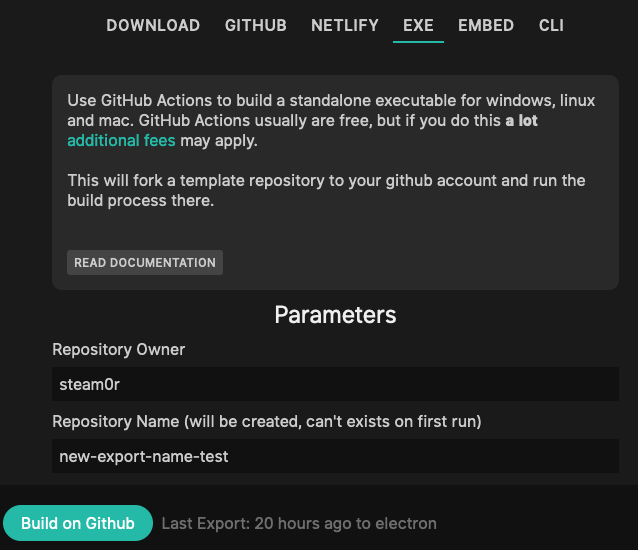
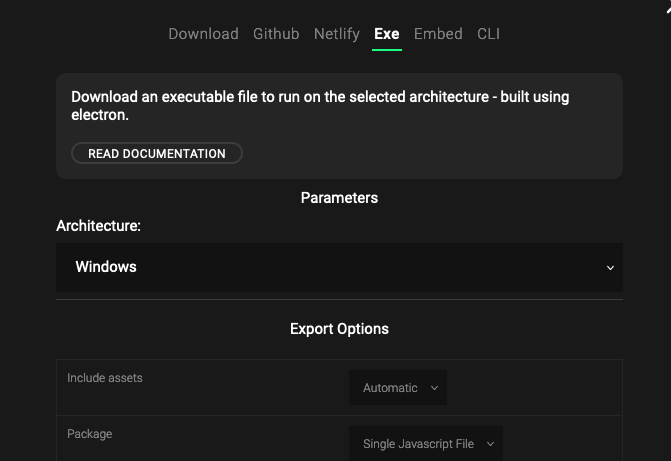
update export docs for exe export, add options for "no subdirectories" - pandrr/cables/issues/3888

diff --git a/docs/md/4_export_embed/dev_embed/export_exe/export_exe.md b/docs/md/4_export_embed/dev_embed/export_exe/export_exe.md
@@ -8,9 +8,9 @@ This export option allows you to create a standalone executable that will run on
 natively.
 
 We are using [electron](https://www.electronjs.org/) for the cross-platform running of cables patches and
-we will build the executables using server-resources given to us by you in using [github actions](https://github.com/features/actions).
+we will build the executables on our servers for you to download once ready.
 
-The executable will be build and downloadable on github after all is done (see CAVEATS)
+Building executables for OSX is not that easy, so there is a few things to keep in mind (see CAVEATS).
 
 ## Prerequisites
 
@@ -21,40 +21,26 @@ The executable will be build and downloadable on github after all is done (see C
 
 ## Parameters
 
-All these parameters can only be changed/entered by the owner of the patch. Exports can be done to configured deployments
-by all collaborators added to the patch.
+Exports can be done by all collaborators added to the patch.
 
-### Repository Owner
+### Architecture
 
-Put in the name of the repository owner, most of the time this is your github username.
-
-If your repository URL is `https://github.com/cables-gl/cables-cli/` your ownername will be `cables-gl`
-
-### Repository Name
-
-Put in the name of the repository. DO NOT PUT IN AN EXISTING repository. cables will create a new repository for you.
-
-### Branch
-
-This can be left blank or pick any branch you want the changes to be pushed to. ONLY pushes to `main` will trigger
-building the executables!
-
-### Access Token
-
-Enter your generated [access token](https://github.com/settings/tokens) that has at least "repo" permissions in github.
+Pick any of the available operating systems and cpu architectures you want your export to run on. Please
+take a look at the CAVEATS below if you are trying to export to OS X and especially OS X on ARM ("Apple Silicon"/"M1").
 
 ## WALKTHROUGH
 - enter the above information
 - click on button
-- wait for the two buttons to appear
-- click on "View progress" to see the progress of your build on github
-- click on "View finished builds" to jump to the download page on github (it might take a few minutes for build to show up here)
+- wait for the download button to appear
+- download executable, can take some time as electron might turn out to be quite big depending on your platform, even with smaller patches
 
 ## CAVEATS
-- IGNORE THE FIRST BUILD! this is mainly to create the "framework", there will be a second run that then builds your actual patch.
-- this will fail if the repository given already exists before the first run
-- any subsequent run will update (and replace) the current patch
-- old versions will still be available for download on the release page of your repository
+- Apple introduced some security features that make it next to impossible to build these kind of apps at the moment, so there is a few caveats when using this on OS X.
+- The executable is not signed, you will need to whitelist it on every machine you run it on (right click, "open" usually does that).
+  - We cannot sign this executable, as it's contents do change when downloading a patch, this is intended...sorry...
+  - The build for arm/m1-architecture is even harder to run, apple forbids running unsigned apps that are build for arm entirely, not even whitelisting is possible...you may sign it on your own, though.
+- Once you downloaded the app, USE THE FINDER to move it basically anywhere else (like your desktop) before opening it
+  - Apple puts downloaded apps into a random read-only directory UNTIL YOU MOVE IT USING FINDER, we need to write to the directory...sorry...
 
 ## Export Options
 
@@ -76,7 +62,12 @@ these files included in the export.
 - Single Javascript File: packages and minifies everything into one single javascript file to include
 - Multiple Files: will keep the patch configuration, your code, and core code in seperate files
 
-### Compatibility
+### Skip Backups
 
-- Modern browsers: exports your patch as is
-- Old browsers: uses [babel](https://babeljs.io/) to try make your patch run on older browsers, in general should not be needed anymoretry make your patch run on older browsers, in general should not be needed anymore
+- When deselecting this option, the export will include JSON-files for all the versions of your patch that can be re-imported into cables later.
+
+### Export without subdirectories
+
+- Should you need the directory structure of your patch to be "flat" (no js/ or assets/ subdirectory) you can select this option.
+  - This will ususally not be needed, some platforms do not allow for accessing subdirectories tough, and some setups of frameworks like react/vue also behave weirdly with subdirectories.
+

diff --git a/docs/md/4_export_embed/dev_embed/export_netlify/export_netlify.md b/docs/md/4_export_embed/dev_embed/export_netlify/export_netlify.md
@@ -60,7 +60,11 @@ these files included in the export.
 - Single Javascript File: packages and minifies everything into one single javascript file to include
 - Multiple Files: will keep the patch configuration, your code, and core code in seperate files
 
-### Compatibility
+### Skip Backups
 
-- Modern browsers: exports your patch as is
-- Old browsers: uses [babel](https://babeljs.io/) to try make your patch run on older browsers, in general should not be needed anymore
+- When deselecting this option, the export will include JSON-files for all the versions of your patch that can be re-imported into cables later.
+
+### Export without subdirectories
+
+- Should you need the directory structure of your patch to be "flat" (no js/ or assets/ subdirectory) you can select this option.
+    - This will ususally not be needed, some platforms do not allow for accessing subdirectories tough, and some setups of frameworks like react/vue also behave weirdly with subdirectories.

diff --git a/docs/md/4_export_embed/dev_embed/export_zip/export_zip.md b/docs/md/4_export_embed/dev_embed/export_zip/export_zip.md
@@ -33,7 +33,11 @@ these files included in the export.
 - Single Javascript File: packages and minifies everything into one single javascript file to include
 - Multiple Files: will keep the patch configuration, your code, and core code in seperate files
 
-### Compatibility
+### Skip Backups
 
-- Modern browsers: exports your patch as is
-- Old browsers: uses [babel](https://babeljs.io/) to try make your patch run on older browsers, in general should not be needed anymore
+- When deselecting this option, the export will include JSON-files for all the versions of your patch that can be re-imported into cables later.
+
+### Export without subdirectories
+
+- Should you need the directory structure of your patch to be "flat" (no js/ or assets/ subdirectory) you can select this option.
+    - This will ususally not be needed, some platforms do not allow for accessing subdirectories tough, and some setups of frameworks like react/vue also behave weirdly with subdirectories.

diff --git a/docs/md/4_export_embed/dev_embed/export_github/export_github.md b/docs/md/4_export_embed/dev_embed/export_github/export_github.md
@@ -77,7 +77,11 @@ these files included in the export.
 - Single Javascript File: packages and minifies everything into one single javascript file to include
 - Multiple Files: will keep the patch configuration, your code, and core code in seperate files
 
-### Compatibility
+### Skip Backups
 
-- Modern browsers: exports your patch as is
-- Old browsers: uses [babel](https://babeljs.io/) to try make your patch run on older browsers, in general should not be needed anymore
+- When deselecting this option, the export will include JSON-files for all the versions of your patch that can be re-imported into cables later.
+
+### Export without subdirectories
+
+- Should you need the directory structure of your patch to be "flat" (no js/ or assets/ subdirectory) you can select this option.
+  - This will ususally not be needed, some platforms do not allow for accessing subdirectories tough, and some setups of frameworks like react/vue also behave weirdly with subdirectories.
